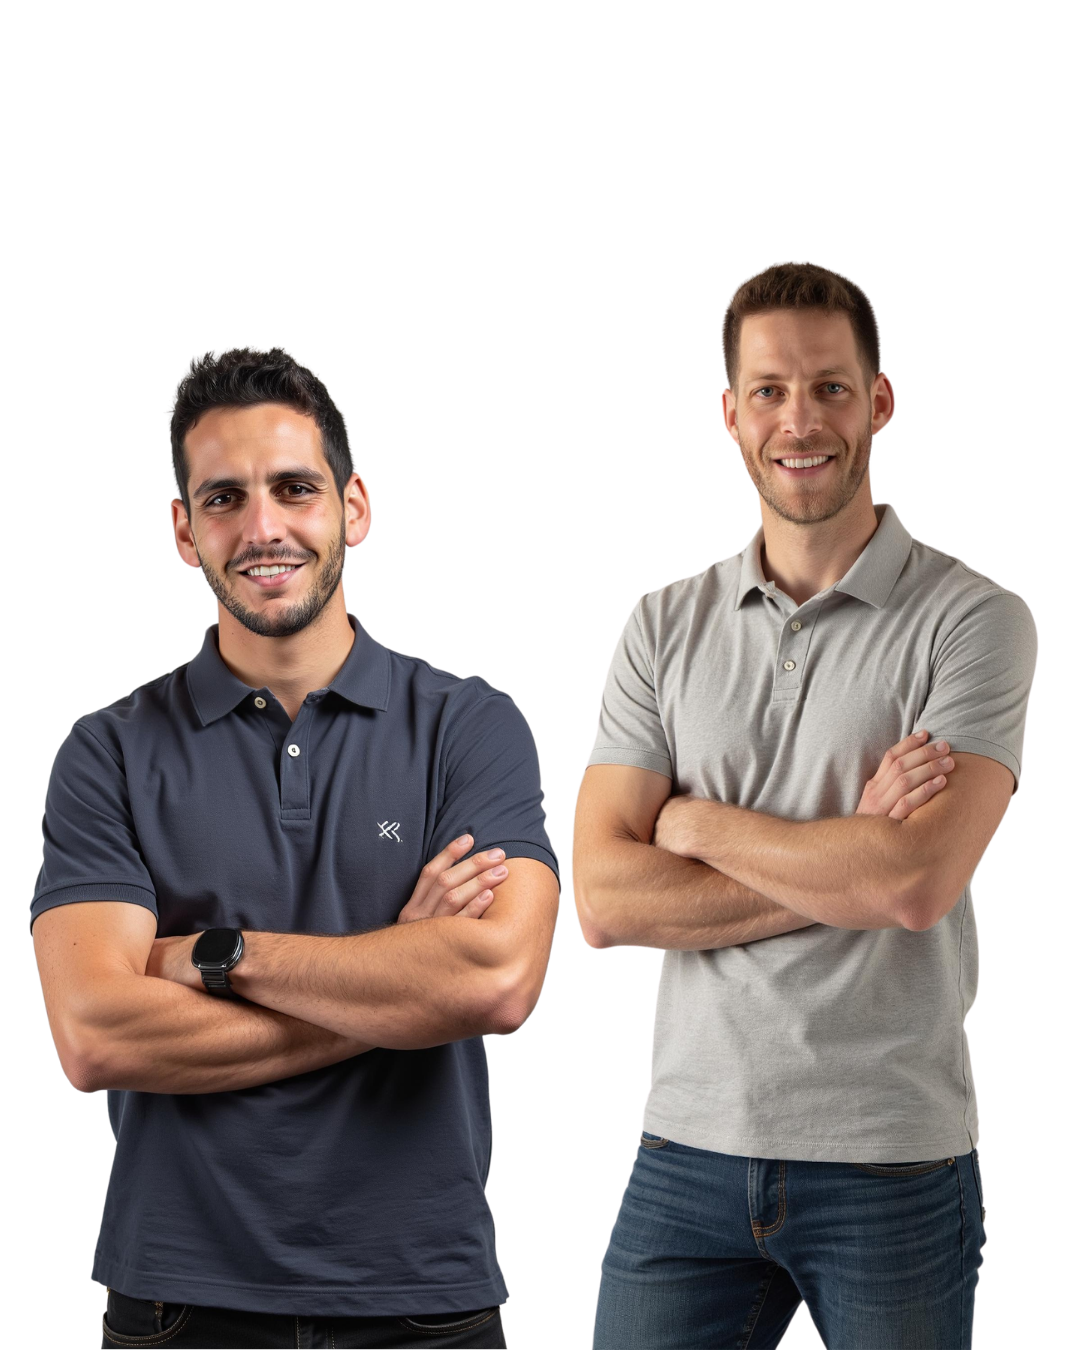
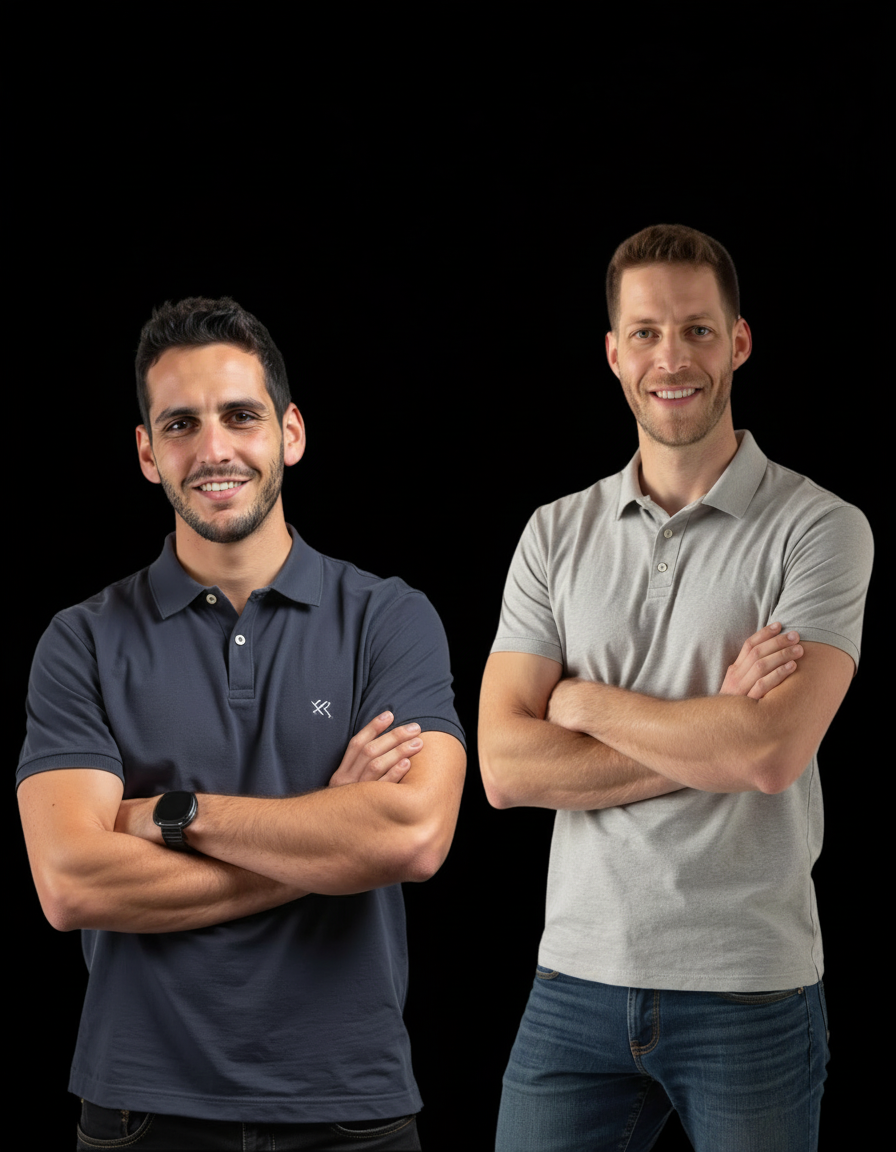
Changes

diff --git a/src/components/Hero.tsx b/src/components/Hero.tsx
@@ -173,7 +173,7 @@ const Hero = () => {
           animate={{ opacity: 1, x: 0 }}
           transition={{ duration: 1, delay: 1.6, ease: [0.16, 1, 0.3, 1] }}
           className="hidden lg:flex items-end justify-start absolute bottom-0 left-0 z-10 pointer-events-none overflow-hidden"
-          style={{ height: '65%', width: '32%' }}>
+          style={{ height: '58%', width: '28%' }}>
 
           <img
             src={foundersDuo}
